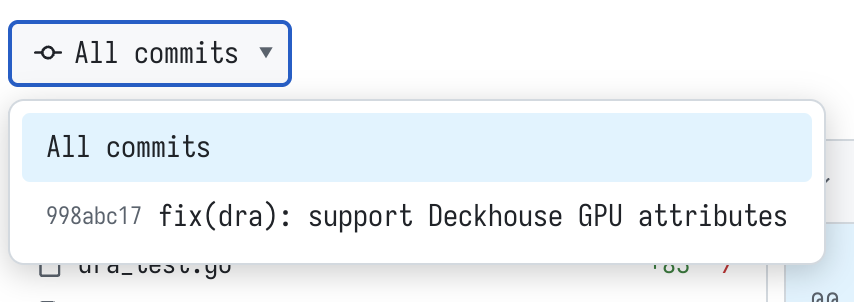
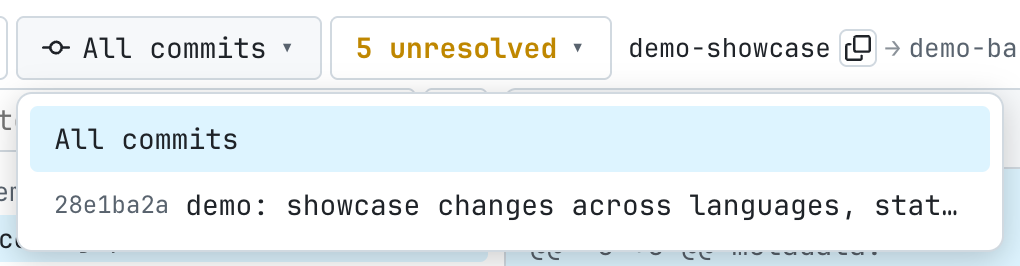
docs: regenerate screenshots at a uniform scale, add toolbar shot

Changed region(s): [[0.0, 0.0602, 1.0, 1.0], [0.6089, 0.0902, 1.0, 0.2707]]

diff --git a/README.md b/README.md
@@ -156,6 +156,11 @@ a tag will carry with `scripts/changelog.sh v1.1.0`.
 
 ## Gallery
 
+Toolbar — commit filter, unresolved threads, source → target branch,
+diffstat and viewed progress:
+
+![toolbar](docs/screenshots/toolbar.png)
+
 File tree with filter, per-file stats and comment badges:
 
 ![file tree](docs/screenshots/tree.png)
